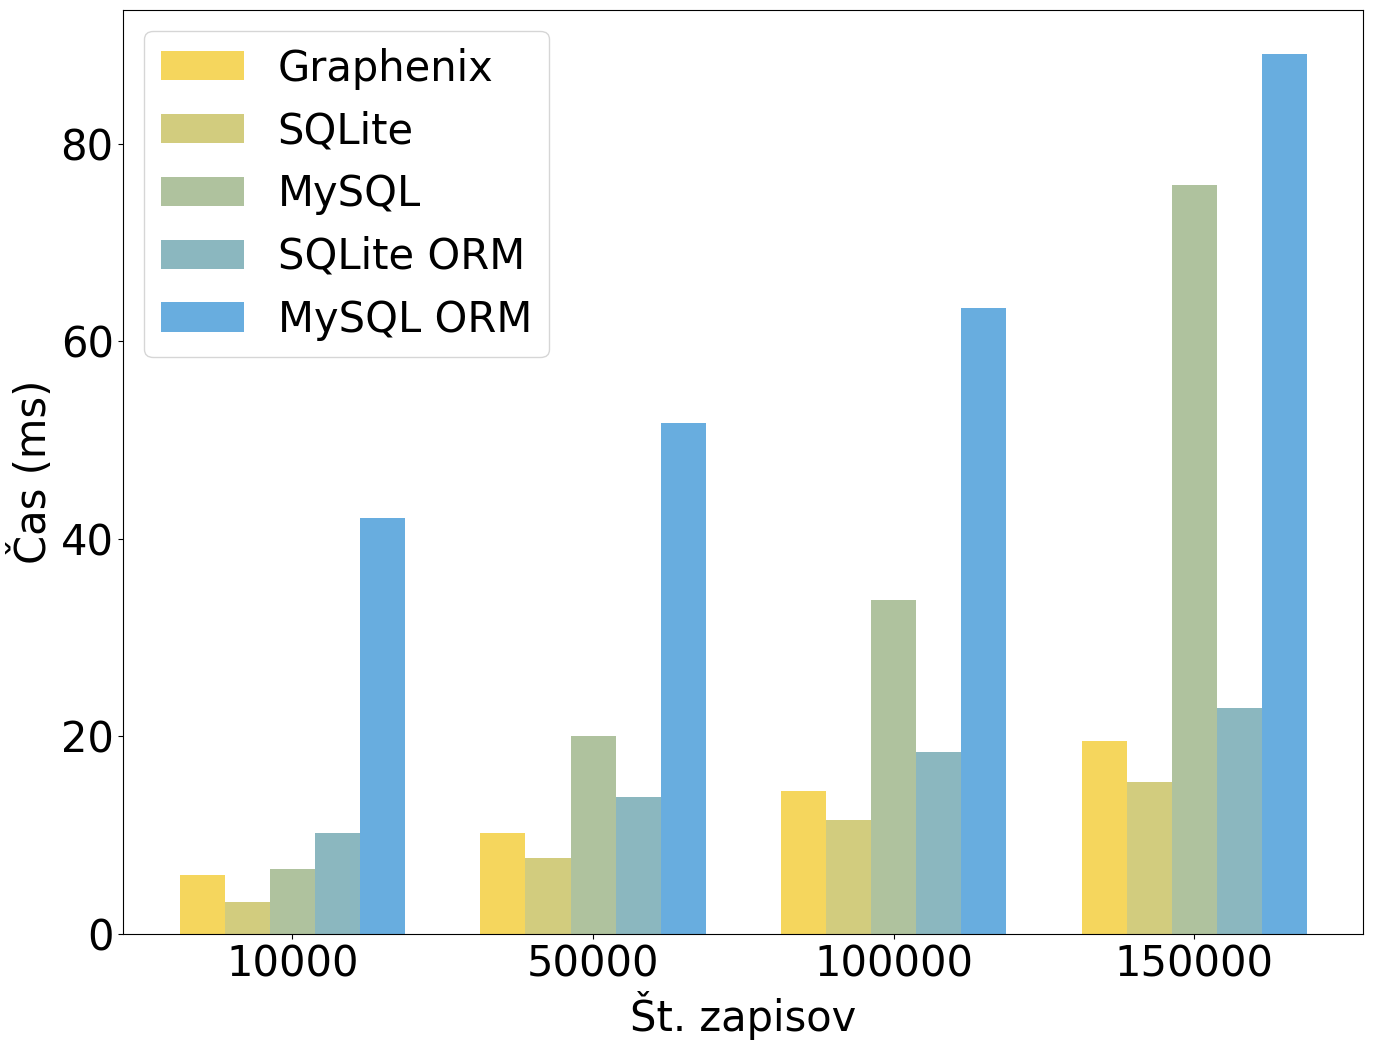
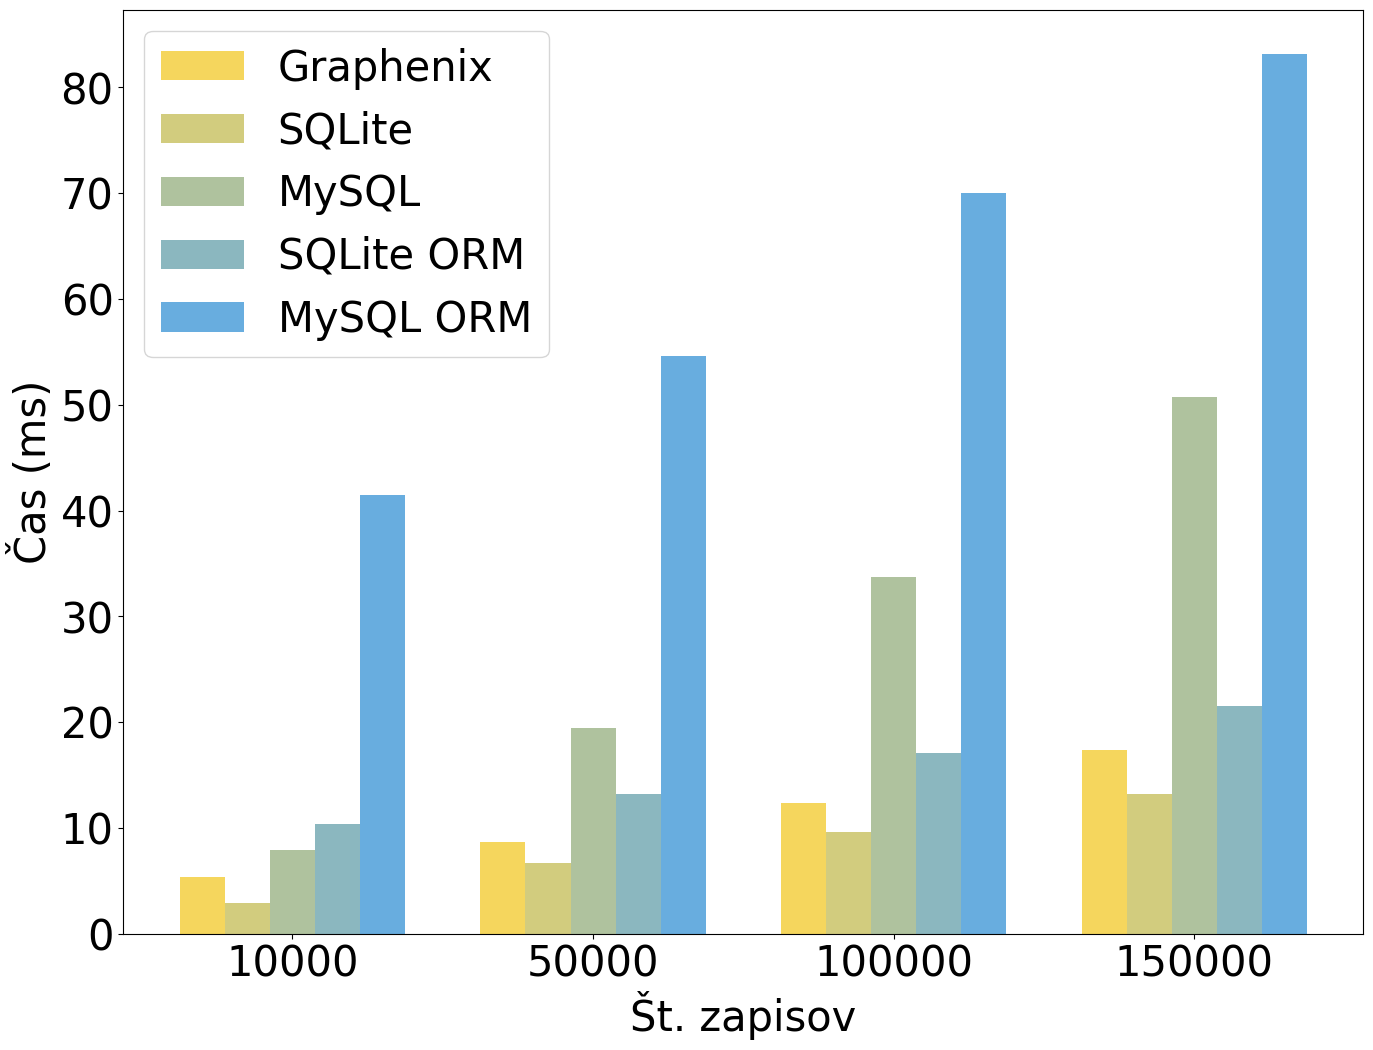
- reworked analysis runner to get the avg without worst 2 times and best 2 times - new insert for index analysis with different distribution

diff --git a/analysis/diffdistinsert/mysql_bulk_index.py b/analysis/diffdistinsert/mysql_bulk_index.py
@@ -1,0 +1,66 @@
+from .data import user_data
+import mysql.connector
+import time
+import sys
+import os
+import random
+random.seed(12)
+
+create_table = """
+    CREATE TABLE `users` (
+        `id` INTEGER NOT NULL AUTO_INCREMENT,
+        `first_name` varchar(15) DEFAULT NULL,
+        `last_name` varchar(15) DEFAULT NULL,
+        `email` varchar(25) DEFAULT NULL,
+        `points` int(11) DEFAULT NULL,
+        `is_admin` tinyint(1) DEFAULT NULL,
+        `created_at` datetime DEFAULT NULL,
+    PRIMARY KEY (`id`),
+    INDEX `idx_points` (`points`) USING BTREE
+    ) ENGINE=InnoDB DEFAULT CHARSET=latin1;
+    """
+
+def main():
+    num_users = int(sys.argv[1])
+    dbname = f'db_index2_{num_users}'
+
+    conn = mysql.connector.connect(host='localhost', port=3307, user='root', password='root')
+    cursor = conn.cursor()
+    cursor.execute(f"DROP DATABASE IF EXISTS {dbname}")
+    cursor.execute(f"CREATE DATABASE IF NOT EXISTS {dbname}")
+    cursor.execute(f"USE {dbname}")
+    cursor.execute(create_table)
+    cursor.close()
+    conn.close()
+    
+    start_time = time.perf_counter()
+    conn = mysql.connector.connect(host='localhost', port=3307, user='root', password='root')
+    cursor = conn.cursor()
+    cursor.execute(f"USE {dbname}")
+    first_name_counter = 0
+    chunk_size = 10000
+    
+    for chunk_start in range(0, num_users, chunk_size):
+        chunk_end = min(chunk_start + chunk_size, num_users)
+        user_data_list = []
+
+        for i in range(chunk_start, chunk_end):
+            is_admin = i % 2 == 0
+            user_tuple = (user_data['first_name'] + str(first_name_counter), user_data['last_name'], user_data['email'],
+                        random.randint(10, 80), int(is_admin), user_data['created_at'])
+            user_data_list.append(user_tuple)
+
+        first_name_counter += 1
+        insert_query = f"INSERT INTO users (first_name, last_name, email, points, is_admin, created_at) " \
+                    + "VALUES (%s, %s, %s, %s, %s, %s)"
+        cursor.executemany(insert_query, user_data_list)
+        conn.commit()
+
+    cursor.close()
+    conn.close()
+    end_time = time.perf_counter()
+    elapsed_time = (end_time - start_time) * 1000
+    print(f"{elapsed_time:.2f}")
+
+if __name__ == '__main__':
+    main()

diff --git a/analysis/diffdistinsert/mysql_bulk.py b/analysis/diffdistinsert/mysql_bulk.py
@@ -1,0 +1,65 @@
+from .data import user_data
+import mysql.connector
+import time
+import sys
+import os
+import random
+random.seed(12)
+
+create_table = """
+    CREATE TABLE `users` (
+        `id` INTEGER NOT NULL AUTO_INCREMENT,
+        `first_name` varchar(15) DEFAULT NULL,
+        `last_name` varchar(15) DEFAULT NULL,
+        `email` varchar(25) DEFAULT NULL,
+        `points` int(11) DEFAULT NULL,
+        `is_admin` tinyint(1) DEFAULT NULL,
+        `created_at` datetime DEFAULT NULL,
+    PRIMARY KEY (`id`)
+    ) ENGINE=InnoDB DEFAULT CHARSET=latin1;
+    """
+
+def main():
+    num_users = int(sys.argv[1])
+    dbname = f'raw_singleselect2_{num_users}'
+
+    conn = mysql.connector.connect(host='localhost', port=3307, user='root', password='root')
+    cursor = conn.cursor()
+    cursor.execute(f"DROP DATABASE IF EXISTS {dbname}")
+    cursor.execute(f"CREATE DATABASE IF NOT EXISTS {dbname}")
+    cursor.execute(f"USE {dbname}")
+    cursor.execute(create_table)
+    cursor.close()
+    conn.close()
+    
+    start_time = time.perf_counter()
+    conn = mysql.connector.connect(host='localhost', port=3307, user='root', password='root')
+    cursor = conn.cursor()
+    cursor.execute(f"USE {dbname}")
+    first_name_counter = 0
+    chunk_size = 10000
+    
+    for chunk_start in range(0, num_users, chunk_size):
+        chunk_end = min(chunk_start + chunk_size, num_users)
+        user_data_list = []
+
+        for i in range(chunk_start, chunk_end):
+            is_admin = i % 2 == 0
+            user_tuple = (user_data['first_name'] + str(first_name_counter), user_data['last_name'], user_data['email'],
+                        random.randint(10, 80), int(is_admin), user_data['created_at'])
+            user_data_list.append(user_tuple)
+
+        first_name_counter += 1
+        insert_query = f"INSERT INTO users (first_name, last_name, email, points, is_admin, created_at) " \
+                    + "VALUES (%s, %s, %s, %s, %s, %s)"
+        cursor.executemany(insert_query, user_data_list)
+        conn.commit()
+
+    cursor.close()
+    conn.close()
+    end_time = time.perf_counter()
+    elapsed_time = (end_time - start_time) * 1000
+    print(f"{elapsed_time:.2f}")
+
+if __name__ == '__main__':
+    main()

diff --git a/analysis/diffdistinsert/raw_sqlite_index.py b/analysis/diffdistinsert/raw_sqlite_index.py
@@ -1,0 +1,58 @@
+from .data import user_data
+import sqlite3
+import time
+import sys
+import os
+import random
+random.seed(12)
+
+create_table = """
+     CREATE TABLE users (
+        id INTEGER PRIMARY KEY,
+        first_name TEXT,
+        last_name TEXT,
+        email TEXT,
+        points INTEGER,
+        is_admin INTEGER,
+        created_at TIMESTAMP
+    )
+    """
+
+create_index = """
+    CREATE INDEX idx_points 
+    ON users (points);
+"""
+
+def main():
+    num_users = int(sys.argv[1])
+    dbname = f'db_index2_{num_users}'
+    
+    if os.path.exists(f'graphenix_db/{dbname}.db'):
+        os.remove(f'graphenix_db/{dbname}.db')
+
+    conn = sqlite3.connect(f'graphenix_db/{dbname}.db')
+    cursor = conn.cursor()
+    cursor.execute(create_table)
+    conn.commit()
+    cursor.execute(create_index)
+    conn.commit()
+    
+    start_time = time.perf_counter()
+
+    for i in range(num_users):
+        cu = {**user_data, "is_admin": i%2 == 0, "points": random.randint(10, 80),
+              "first_name": user_data['first_name'] + str(i)}
+        cursor.execute(
+            "INSERT INTO users (first_name, last_name, email, points, is_admin, created_at) VALUES (?, ?, ?, ?, ?, ?)",
+            tuple(cu.values())
+        )
+    
+    conn.commit()
+    cursor.close()
+    conn.close()
+    end_time = time.perf_counter()
+    elapsed_time = (end_time - start_time) * 1000
+    print(f"{elapsed_time:.2f}")
+
+if __name__ == '__main__':
+    main()

diff --git a/analysis/diffdistinsert/raw_sqlite.py b/analysis/diffdistinsert/raw_sqlite.py
@@ -1,0 +1,51 @@
+from .data import user_data
+import sqlite3
+import time
+import sys
+import os
+import random
+random.seed(12)
+
+create_table = """
+     CREATE TABLE users (
+        id INTEGER PRIMARY KEY,
+        first_name TEXT,
+        last_name TEXT,
+        email TEXT,
+        points INTEGER,
+        is_admin INTEGER,
+        created_at TIMESTAMP
+    )
+    """
+
+def main():
+    num_users = int(sys.argv[1])
+    dbname = f'sqlite_singleinsert2_raw_{num_users}'
+    
+    if os.path.exists(f'graphenix_db/{dbname}.db'):
+        os.remove(f'graphenix_db/{dbname}.db')
+
+    conn = sqlite3.connect(f'graphenix_db/{dbname}.db')
+    cursor = conn.cursor()
+    cursor.execute(create_table)
+    conn.commit()
+    
+    start_time = time.perf_counter()
+
+    for i in range(num_users):
+        cu = {**user_data, "is_admin": i%2 == 0, "points": random.randint(10, 80),
+              "first_name": user_data['first_name'] + str(i)}
+        cursor.execute(
+            "INSERT INTO users (first_name, last_name, email, points, is_admin, created_at) VALUES (?, ?, ?, ?, ?, ?)",
+            tuple(cu.values())
+        )
+    
+    conn.commit()
+    cursor.close()
+    conn.close()
+    end_time = time.perf_counter()
+    elapsed_time = (end_time - start_time) * 1000
+    print(f"{elapsed_time:.2f}")
+
+if __name__ == '__main__':
+    main()

diff --git a/analysis/diffdistinsert/graphenix_bulk_index.py b/analysis/diffdistinsert/graphenix_bulk_index.py
@@ -1,0 +1,41 @@
+from graphenix import Field, Schema, Model
+from .data import user_data
+import sys
+import time
+import random
+random.seed(12)
+
+class User(Model):
+    first_name = Field.String(size=15)
+    last_name = Field.String(size=15)
+    email = Field.String(size=25)
+    points = Field.Int().as_index()
+    is_admin = Field.Bool()
+    created_at = Field.DateTime()
+
+def main():
+    num_users = int(sys.argv[1])
+    my_schema = Schema(f'db_index2_{num_users}', models=[User])
+    if my_schema.exists():
+        my_schema.delete()
+
+    my_schema.create()
+
+    start_time = time.perf_counter()
+
+    user_data_list = []
+    for i in range(num_users):
+        is_admin = i % 2 == 0
+        usr = [user_data['first_name'] + str(i), user_data['last_name'], user_data['email'],
+               random.randint(10, 80), is_admin, int(user_data['created_at'].timestamp())]
+        user_data_list.append(usr)
+
+    User.bulkcreate(user_data_list)
+
+    end_time = time.perf_counter()
+    elapsed_time = (end_time - start_time) * 1000
+    print(f"{elapsed_time:.2f}")
+
+if __name__ == '__main__':
+    main()
+

diff --git a/analysis/diffdistinsert/graphenix_bulk.py b/analysis/diffdistinsert/graphenix_bulk.py
@@ -1,0 +1,41 @@
+from graphenix import Field, Schema, Model
+from .data import user_data
+import sys
+import time
+import random
+random.seed(12)
+
+class User(Model):
+    first_name = Field.String(size=15)
+    last_name = Field.String(size=15)
+    email = Field.String(size=25)
+    points = Field.Int()
+    is_admin = Field.Bool()
+    created_at = Field.DateTime()
+
+def main():
+    num_users = int(sys.argv[1])
+    my_schema = Schema(f'singleinsert_bulk2_{num_users}', models=[User])
+    if my_schema.exists():
+        my_schema.delete()
+
+    my_schema.create()
+
+    start_time = time.perf_counter()
+
+    user_data_list = []
+    for i in range(num_users):
+        is_admin = i % 2 == 0
+        usr = [user_data['first_name'] + str(i), user_data['last_name'], user_data['email'],
+               random.randint(10, 80), is_admin, int(user_data['created_at'].timestamp())]
+        user_data_list.append(usr)
+
+    User.bulkcreate(user_data_list)
+
+    end_time = time.perf_counter()
+    elapsed_time = (end_time - start_time) * 1000
+    print(f"{elapsed_time:.2f}")
+
+if __name__ == '__main__':
+    main()
+

diff --git a/graphenix/engine/parser.hpp b/graphenix/engine/parser.hpp
@@ -18,7 +18,7 @@
 #define CHUNK_SIZE 10 * 1024 * 1024
 #define ID_KEY "_id"
 
-#define MIN_CLUSTER_SIZE 10
+#define MIN_CLUSTER_SIZE 50
 #define MAX_CLUSTER_SIZE 1000000 // 1 MB
 
 typedef std::unordered_map<int64_t, int64_t> hashmap_ii;

diff --git a/analysis/diffdistinsert/data.py b/analysis/diffdistinsert/data.py
@@ -1,0 +1,10 @@
+from datetime import datetime
+
+user_data = {
+    "first_name": "John",
+    "last_name": "Doe",
+    "email": "john.doe@example.com",
+    "points": 35,
+    "is_admin": False,
+    "created_at": datetime.now()
+}
